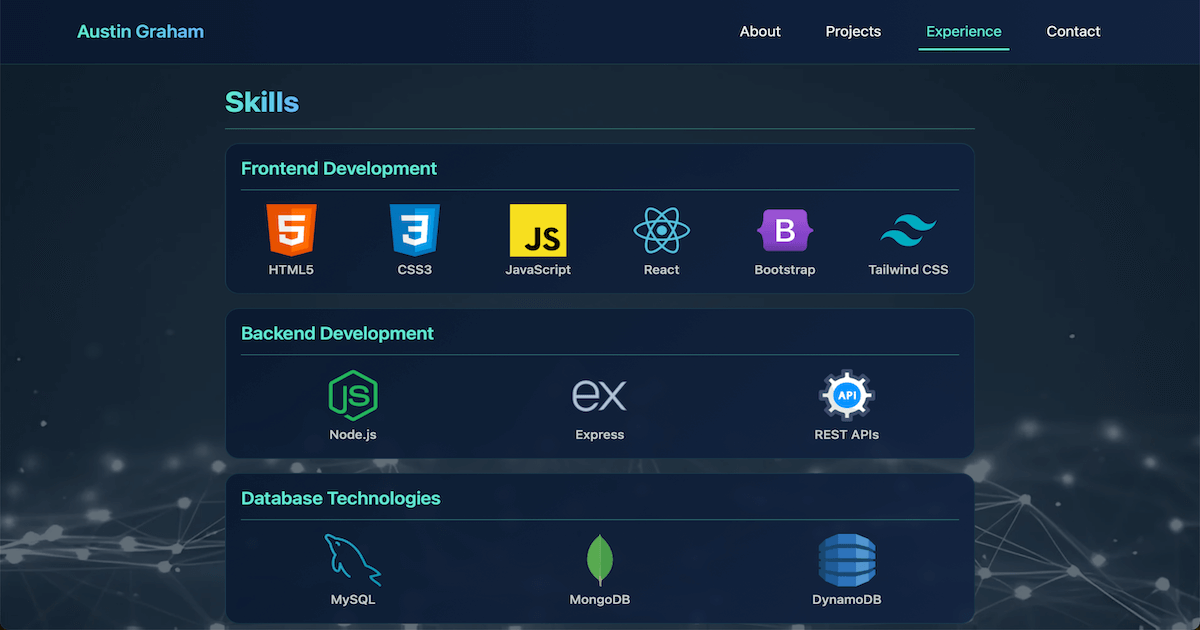
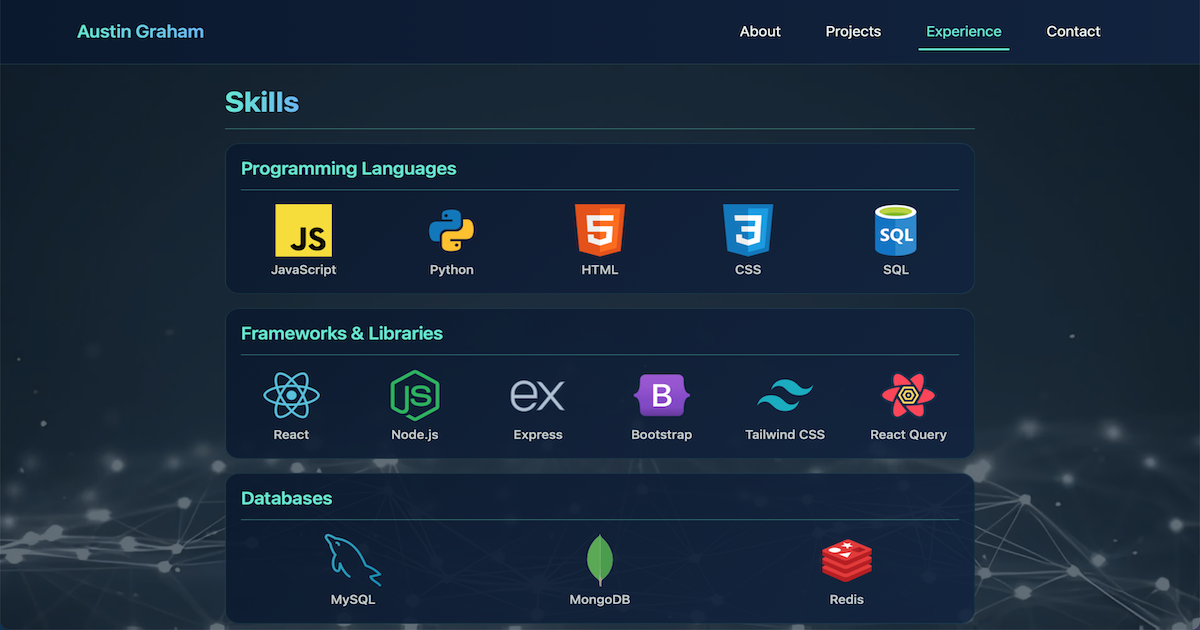
reorganized skills section

diff --git a/src/pages/Experience/constants/index.js b/src/pages/Experience/constants/index.js
@@ -1,23 +1,25 @@
 export const skillsData = {
-  frontend: [
-    { name: 'HTML5', icon: '/icons/html.webp', description: 'Semantic HTML5 markup for modern web applications' },
-    { name: 'CSS3', icon: '/icons/css.webp', description: 'Advanced CSS3 including Flexbox, Grid, and animations' },
+  languages: [
     { name: 'JavaScript', icon: '/icons/javascript.webp', description: 'Modern ES6+ JavaScript for dynamic client-side functionality' },
-    { name: 'React', icon: '/icons/react.webp', description: 'React.js library for building interactive user interfaces' },
-    { name: 'Bootstrap', icon: '/icons/bootstrap.webp', description: 'Bootstrap framework for responsive web development' },
-    { name: 'Tailwind', icon: '/icons/tailwind.webp', description: 'Utility-first CSS framework for modern web applications' }
+    { name: 'Python', icon: '/icons/python.webp', description: 'Python for scripting and backend development' },
+    { name: 'HTML', icon: '/icons/html.webp', description: 'Semantic HTML5 markup for modern web applications' },
+    { name: 'CSS', icon: '/icons/css.webp', description: 'Advanced CSS3 including Flexbox, Grid, and animations' },
+    { name: 'SQL', icon: '/icons/sql.webp', description: 'SQL for database queries and manipulation' }
   ],
-  backend: [
+  frameworks: [
+    { name: 'React', icon: '/icons/react.webp', description: 'React.js library for building interactive user interfaces' },
     { name: 'Node.js', icon: '/icons/nodejs.webp', description: 'Server-side JavaScript runtime environment' },
     { name: 'Express', icon: '/icons/express.webp', description: 'Web application framework for Node.js' },
-    { name: 'REST APIs', icon: '/icons/api.webp', description: 'RESTful API design and implementation' }
+    { name: 'Bootstrap', icon: '/icons/bootstrap.webp', description: 'Bootstrap framework for responsive web development' },
+    { name: 'Tailwind CSS', icon: '/icons/tailwind.webp', description: 'Utility-first CSS framework for modern web applications' },
+    { name: 'React Query', icon: '/icons/react-query.webp', description: 'Data fetching and state management library for React applications' }
   ],
   databases: [
     { name: 'MySQL', icon: '/icons/mysql.webp', description: 'Relational database management system' },
     { name: 'MongoDB', icon: '/icons/mongodb.webp', description: 'NoSQL database for flexible data storage' },
-    { name: 'DynamoDB', icon: '/icons/dynamodb.webp', description: 'Fast and flexible NoSQL database service by AWS' }
+    { name: 'Redis', icon: '/icons/redis.webp', description: 'In-memory data structure store for caching and performance optimization' }
   ],
-  infrastructure: [
+  tools: [
     { name: 'AWS', icon: '/icons/aws.webp', description: 'Amazon Web Services cloud computing platform' },
     { name: 'Git', icon: '/icons/git.webp', description: 'Version control system for tracking code changes' },
     { name: 'Vite', icon: '/icons/vite.webp', description: 'Next generation frontend build tool' }

diff --git a/src/pages/Experience/components/Skills.jsx b/src/pages/Experience/components/Skills.jsx
@@ -8,10 +8,10 @@ export const Skills = () => {
   const animations = useAnimations();
 
   const sections = [
-    { title: "Frontend Development", data: skillsData.frontend, id: "frontend-skills" },
-    { title: "Backend Development", data: skillsData.backend, id: "backend-skills" },
-    { title: "Database Technologies", data: skillsData.databases, id: "database-skills" },
-    { title: "Tools & Infrastructure", data: skillsData.infrastructure, id: "tools-skills" }
+    { title: "Programming Languages", data: skillsData.languages, id: "languages-skills" },
+    { title: "Frameworks & Libraries", data: skillsData.frameworks, id: "frameworks-skills" },
+    { title: "Databases", data: skillsData.databases, id: "database-skills" },
+    { title: "Tools & Infrastructure", data: skillsData.tools, id: "tools-skills" }
   ];
 
   return (

diff --git a/src/pages/Projects/config/techIcons.js b/src/pages/Projects/config/techIcons.js
@@ -27,4 +27,5 @@ export const techIcons = {
   'Gunicorn': '/icons/gunicorn.webp',
   'Redis': '/icons/redis.webp',
   'TanStack Query': '/icons/react-query.webp',
+  'SQL': '/icons/sql.webp',
 };
